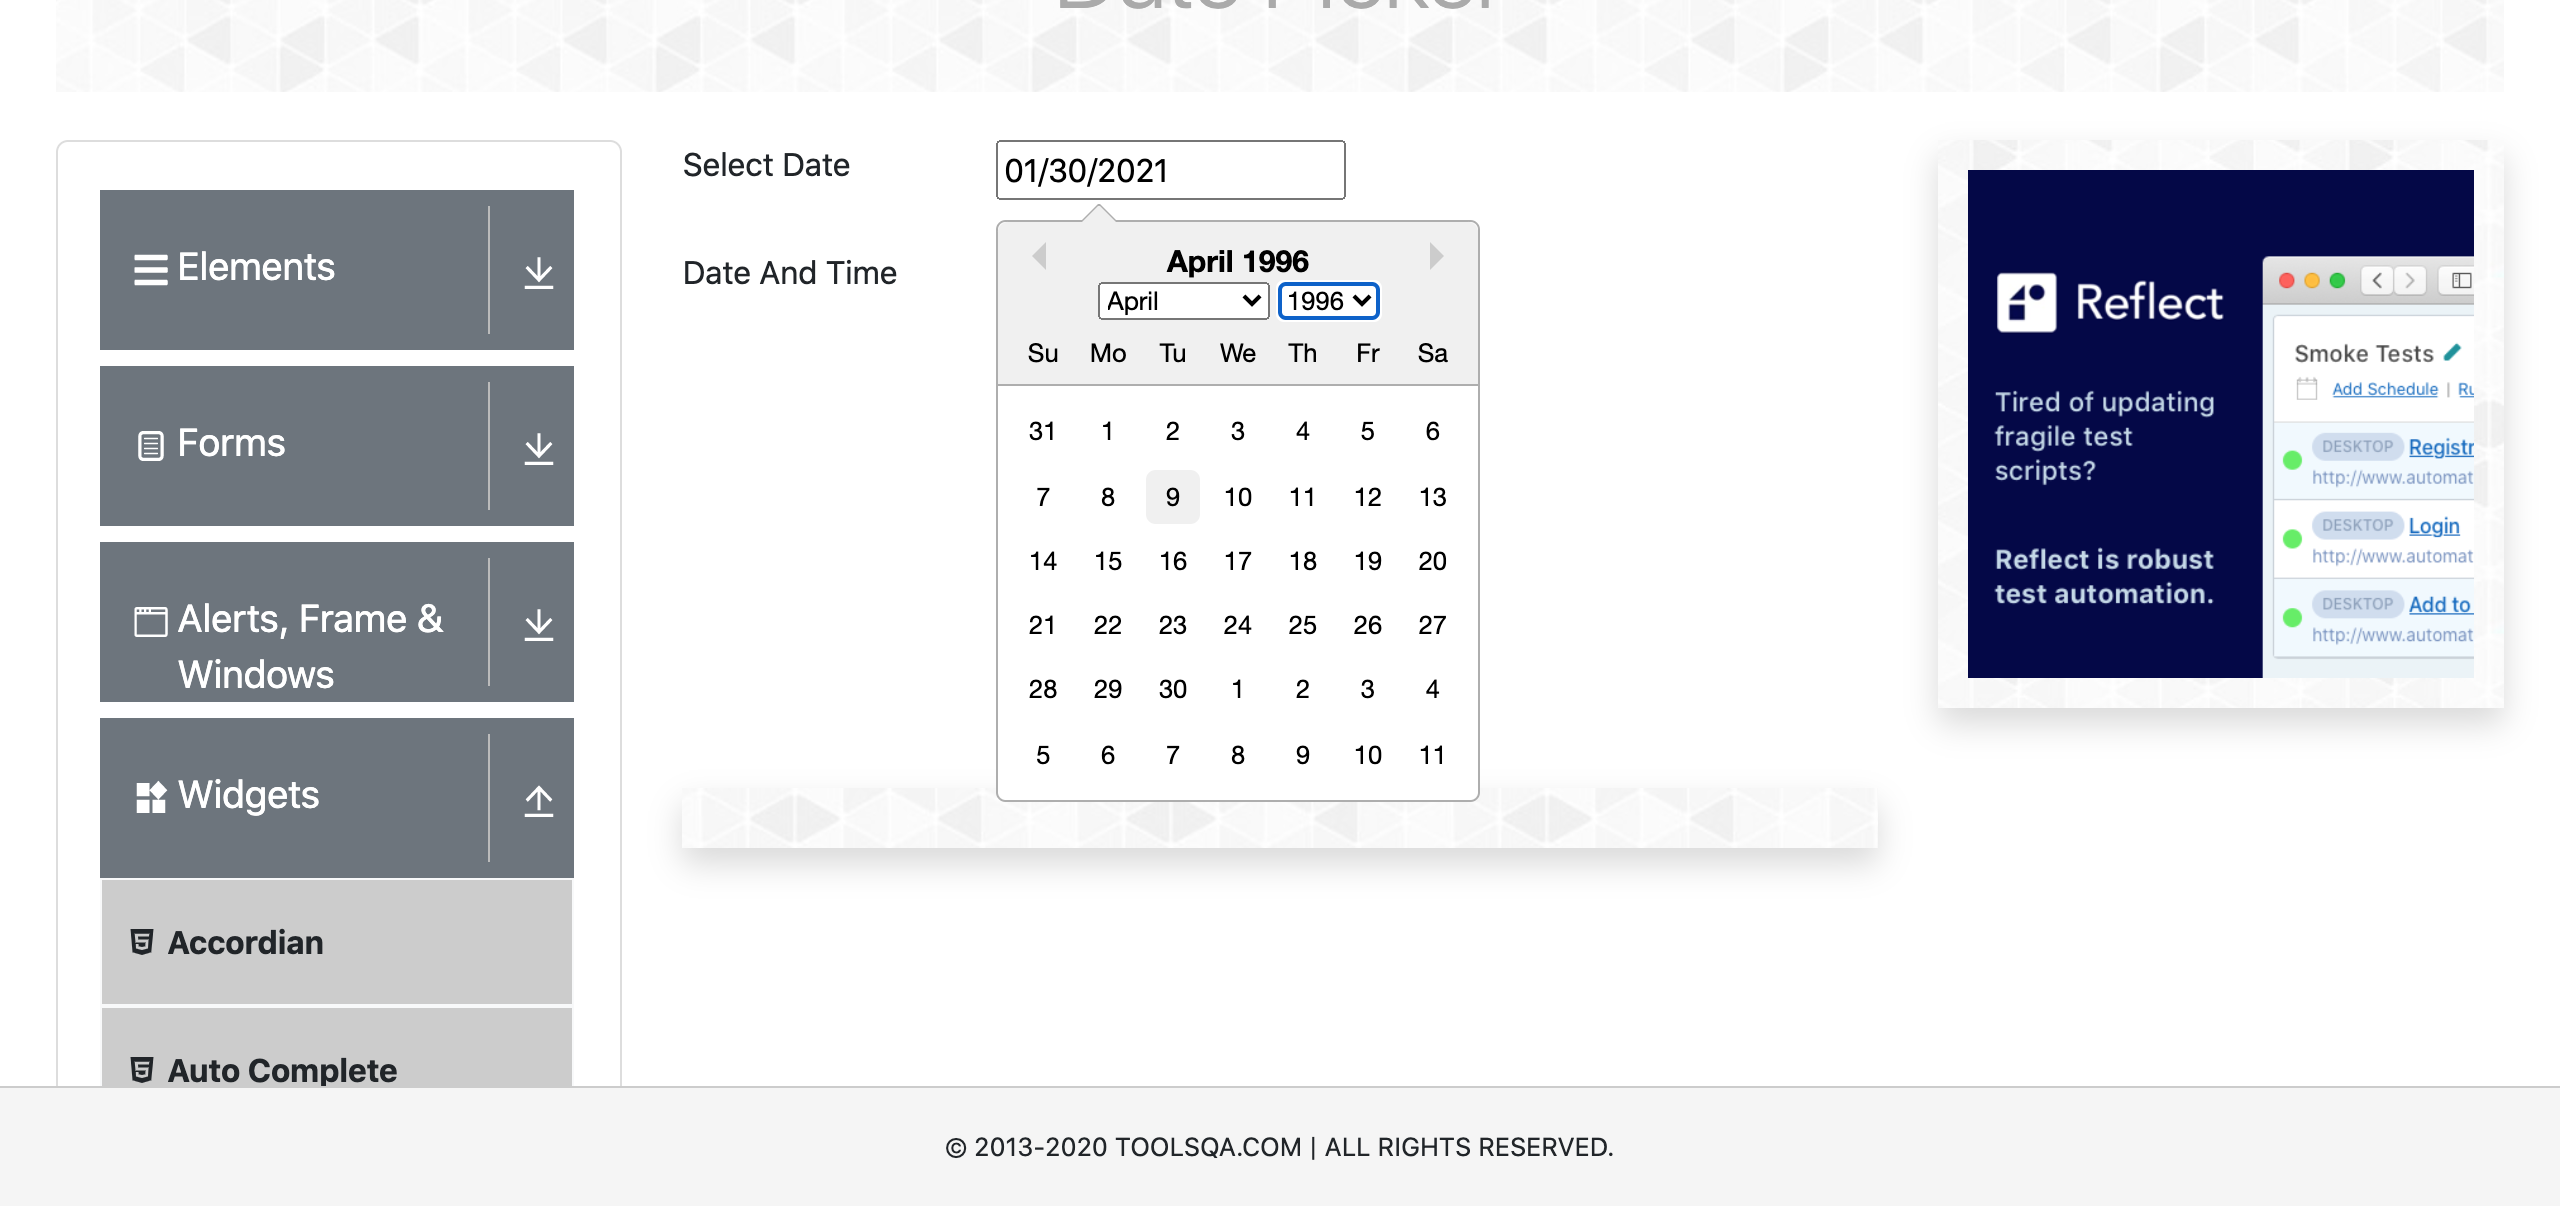
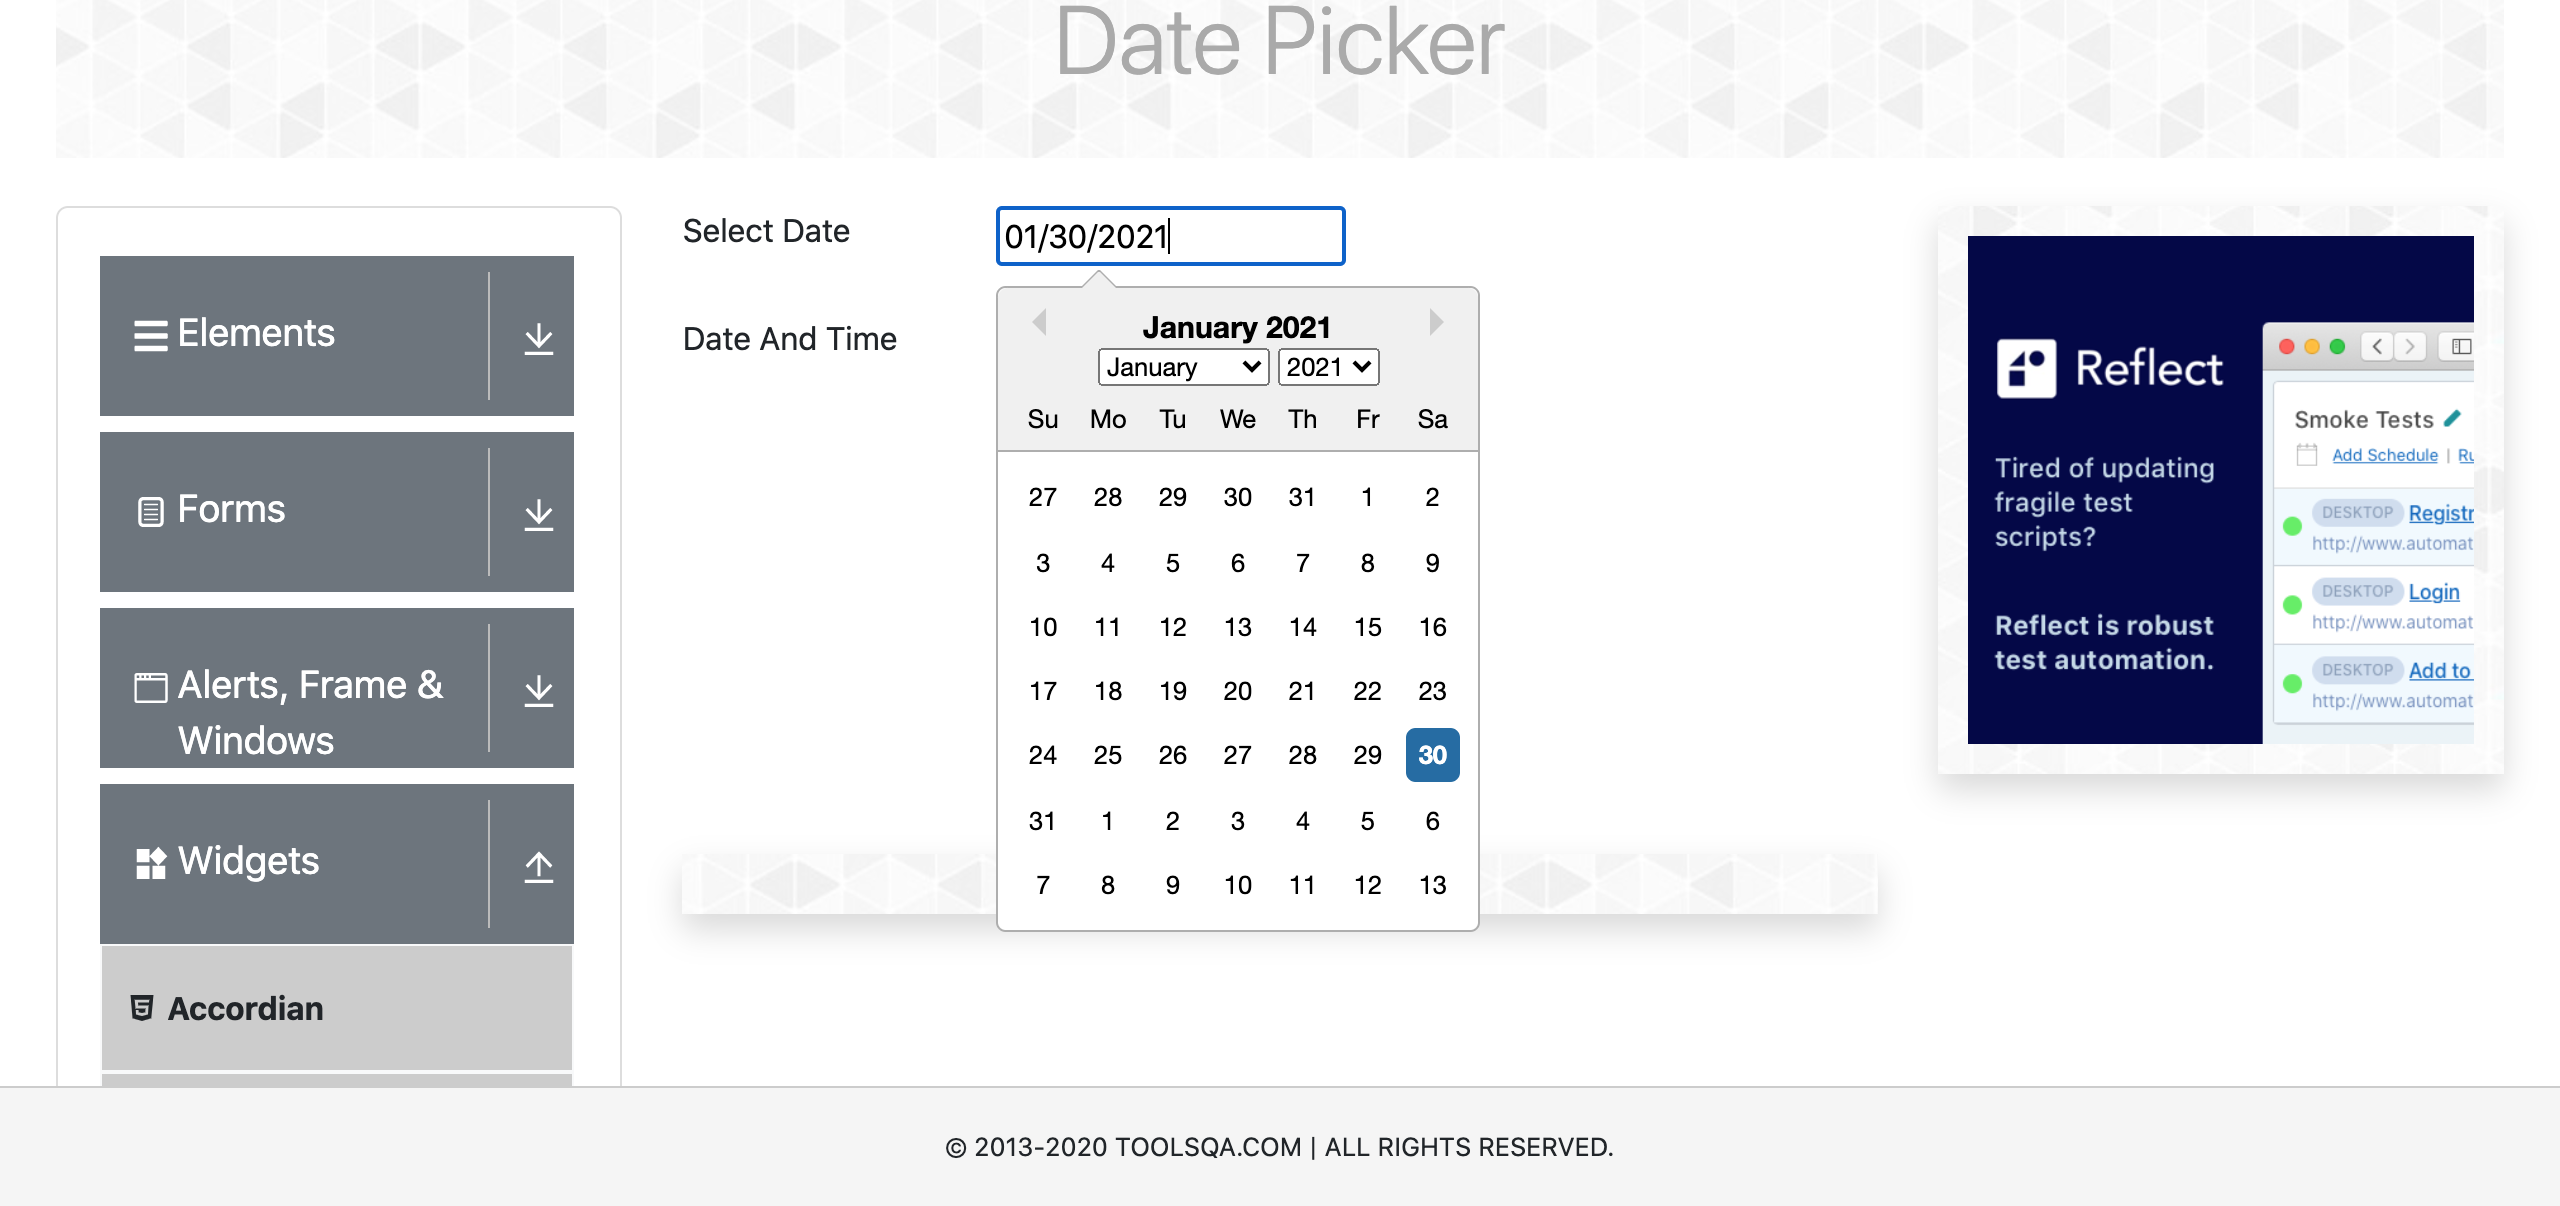
new step page created

diff --git a/src/test/java/com/demoqa/step_definitions/DatePickerStepDef.java b/src/test/java/com/demoqa/step_definitions/DatePickerStepDef.java
@@ -68,51 +68,50 @@ public class DatePickerStepDef {
         BrowserUtils.waitFor(2);
 
         String date1 = new DatePickerPage().datePickerMonthYearInput.getAttribute("value");
-
+        System.out.println("date1 = " + date1);
         String [] date2 = date1.split("/");
 
+        int day=Integer.parseInt(date2[1]);
         int month=Integer.parseInt(date2[0]);
         int year=Integer.parseInt(date2[2]);
 
         if(month==1){
-            month=12;
+            month=11;
             year=year-1;
         }else if(month>1) {
-            month = month - 1;
+            month = month - 2;
         }
-
-        String month1=String.valueOf(month);
-        String year1=String.valueOf(year);
-        int day=Integer.parseInt(date2[1]);
-
-//        System.out.println("day = " + day);
-//        System.out.println("year1 = " + year1);
-//        System.out.println("month1 = " + month1);
 
         new DatePickerPage().datePickerMonthYearInput.click();
 
         BrowserUtils.waitFor(2);
 
-        WebElement dropdownMonth = Driver.get().findElement(By.xpath("//select/option[text()='"+month+"']"));
+        WebElement dropdownMonth = Driver.get().findElement(By.xpath("//select/option[@value='"+month+"']"));
         WebElement dropdownYear = Driver.get().findElement(By.xpath("//select/option[text()='"+year+"']"));
 
         dropdownMonth.click();
         dropdownYear.click();
         BrowserUtils.waitFor(1);
+        if(day>=25) {
 
-        try {
-            WebElement dropdownDay=Driver.get().findElement(By.xpath("(//div[@class='react-datepicker__week']/div[text()='"+day+"'])[1]"));
-
-            dropdownDay.click();
-        }
-        catch(org.openqa.selenium.StaleElementReferenceException ex)
-        {
-            WebElement dropdownDay=Driver.get().findElement(By.xpath("(//div[@class='react-datepicker__week']/div[text()='"+day+"'])[1]"));
-
-            dropdownDay.click();
-        }
+            try {
+                WebElement dropdownDay = Driver.get().findElement(By.xpath("(//div[@class='react-datepicker__week']/div[text()='" + day + "'])[2]"));
+                dropdownDay.click();
+            } catch (org.openqa.selenium.StaleElementReferenceException ex) {
+                WebElement dropdownDay = Driver.get().findElement(By.xpath("(//div[@class='react-datepicker__week']/div[text()='" + day + "'])[2]"));
+                dropdownDay.click();
+            }
+        }else
+            try {
+                WebElement dropdownDay = Driver.get().findElement(By.xpath("(//div[@class='react-datepicker__week']/div[text()='" + day + "'])[1]"));
+                dropdownDay.click();
+            } catch (org.openqa.selenium.StaleElementReferenceException ex) {
+                WebElement dropdownDay = Driver.get().findElement(By.xpath("(//div[@class='react-datepicker__week']/div[text()='" + day + "'])[1]"));
+                dropdownDay.click();
+            }
         BrowserUtils.waitFor(4);
 
-
+        String date3 = new DatePickerPage().datePickerMonthYearInput.getAttribute("value");
+        System.out.println("date3 = " + date3);
     }
 }
